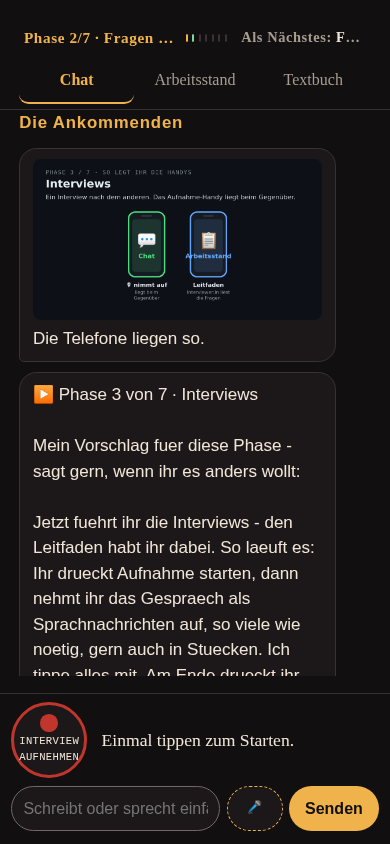
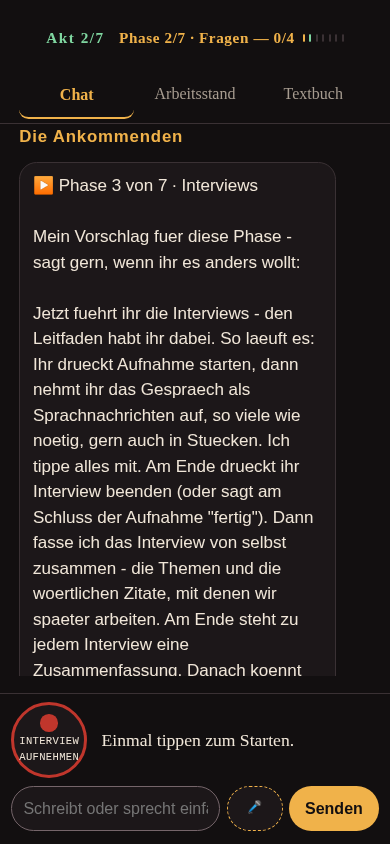
Eigene Nachricht erzwingt wieder ans Ende, auch mit Anker oben am Phasenanfang
Regression im letzten Fix: nach einem Phasenwechsel bleibt der Verlauf
oben am Phasenanfang stehen (warUnten bleibt falsch), bis die Gruppe
selbst wieder runterscrollt -- genau das wollte die Karte. Aber dieselbe
Bedingung hat auch die eigene Nachricht und die Bot-Antwort danach oben
unsichtbar gelassen: Text senden, eine Sprachnachricht hochladen und ein
Knopfdruck sind aber eigene Aktionen, kein passives Nachruecken, und
sollen den Verlauf IMMER wieder ans Ende holen.

``erzwingeNachUnten`` haelt das als einmalige Fahne fest (gesetzt bei
sendeText(), dem Knopf-Handler und erledigt() fuer Audio-Auftraege),
konsumiert vom naechsten Poll, der tatsaechlich neue Nachrichten bringt.

Ausserdem: den Dokumentations-Screenshot aus dem vorigen Commit wieder auf
den Stand von origin/main zurueckgesetzt -- er gehoerte nicht in den Diff.

tests/e2e/test_web_chat_phasenscroll_e2e.py um die eigene Nachricht nach
dem Phasenwechsel erweitert; tests/test_web_chat_js.py an die neue
Fahne angepasst.

Changed region(s): [[0.0308, 0.0924, 0.8, 0.8009], [0.0615, 0.0308, 0.8923, 0.0616], [0.7385, 0.0924, 0.8923, 0.1232]]

diff --git a/interview_theater/web_chat.py b/interview_theater/web_chat.py
@@ -1086,6 +1086,14 @@ _CHAT_JS = """
     ziel.scrollIntoView();
   }
 
+  // Phasenscroll-Karte, Nachtrag (05.10.2026): eine eigene Aktion (Text,
+  // Audioaufnahme, Knopfdruck) soll IMMER wieder ans Ende springen, auch
+  // waehrend der Anker oben noch am Phasenanfang steht -- sonst sieht die
+  // Gruppe die eigene Zeile und die Bot-Antwort danach nicht mehr.
+  // Einmal gesetzt, bleibt die Fahne stehen, bis ein Poll tatsaechlich neue
+  // Nachrichten bringt (die eigene braucht manchmal einen Takt laenger).
+  var erzwingeNachUnten = false;
+
   function nimmZustand(daten) {
     var warUnten = amUnterenRand();
     // Review-Befund 2: die Seite laedt nie neu, ein Nonce gilt hoechstens
@@ -1119,8 +1127,8 @@ _CHAT_JS = """
       // Poll) duerfen diesen Anker nicht wieder nach unten reissen, solange
       // niemand selbst runtergescrollt ist. ``warUnten`` ist VOR dieser
       // DOM-Aenderung gelesen, genau wie im ``geaendert``-Zweig unten.
-      if (phasenwechsel) { scrolleZuPhasenanfang(); }
-      else if (warUnten) { nachUnten(); }
+      if (phasenwechsel) { scrolleZuPhasenanfang(); erzwingeNachUnten = false; }
+      else if (warUnten || erzwingeNachUnten) { nachUnten(); erzwingeNachUnten = false; }
     } else if (warUnten && geaendert.length && letzteBlaseWurdeGeaendert(geaendert)) {
       nachUnten();
     }
@@ -1251,7 +1259,8 @@ _CHAT_JS = """
     if (!text) { return; }
     eingabe.value = '';
     veralteLetzteLeiste();
-    function zurueck() { if (!eingabe.value) { eingabe.value = text; } }
+    erzwingeNachUnten = true;
+    function zurueck() { if (!eingabe.value) { eingabe.value = text; } erzwingeNachUnten = false; }
     postJson(`chat/senden`, { text: text }).then(function (r) {
       if (r.ok) { hole(); return; }
       zurueck();
@@ -1280,16 +1289,19 @@ _CHAT_JS = """
     // dasteht, laedt dazu ein.
     var leiste = knopf.closest('.leiste');
     schalteLeiste(leiste, true);
+    erzwingeNachUnten = true;
     postJson(`chat/knopf`, {
       message_id: parseInt(knopf.dataset.message, 10),
       data: knopf.dataset.daten
     }).then(function (r) {
       if (r.ok) { hole(); return; }
       schalteLeiste(leiste, false);
+      erzwingeNachUnten = false;
       hole();
       return fehlerAus(r);
     }).catch(function () {
       schalteLeiste(leiste, false);
+      erzwingeNachUnten = false;
       meldeFehler(TEXT.fehler_netz);
     });
   });
@@ -1477,6 +1489,9 @@ _CHAT_JS = """
         else { brichAb(auftrag.sitzung); }
       }
     }
+    // Phasenscroll-Karte, Nachtrag (05.10.2026): eine Audioaufnahme ist
+    // eine eigene Aktion wie Text/Knopf -- derselbe Zwang ans Ende.
+    if (auftrag.art === 'audio') { erzwingeNachUnten = true; }
     zeigeWarteschlange();
     zeigeAngehalten();   // ein unterwegs gewesenes Segment ist jetzt erledigt
     zeigeModus();

diff --git a/tests/e2e/test_web_chat_phasenscroll_e2e.py b/tests/e2e/test_web_chat_phasenscroll_e2e.py
@@ -122,6 +122,20 @@ def _wechsle_zu_phase_3() -> None:
         conn.close()
 
 
+def _bot_antwort_auf_eigene_nachricht() -> None:
+    """Simuliert, was der Bot-Prozess auf eine eigene Nachricht hin
+    normalerweise antwortet -- in diesem Test ohne Bot-Prozess, direkt
+    gegen dieselbe Datenbank (wie ``_weitere_bot_zeile_nach_dem_wechsel``)."""
+    conn = db.verbinde(DB_PFAD)
+    try:
+        repo.lege_web_post_an(
+            conn, CHAT, repo.RICHTUNG_AUS, repo.WEB_TYP_TEXT,
+            text="Antwort des Bots auf die eigene Nachricht.",
+        )
+    finally:
+        conn.close()
+
+
 def _weitere_bot_zeile_nach_dem_wechsel() -> None:
     """Was ein spaeterer Poll bringen kann, nachdem die Phase-3-Kopfzeile
     schon im Bild steht (z. B. ``leitfaden.sende_einmal``) -- muss den
@@ -231,6 +245,34 @@ def test_phasenwechsel_scrollt_zum_anfang_der_neuen_phase(server, token):
             assert not verlauf_am_ende(), (
                 "Eine Bot-Zeile NACH dem Phasenwechsel hat den Anker oben "
                 "wieder ans Ende des Verlaufs gerissen."
+            )
+
+            # Phasenscroll-Karte, Nachtrag (05.10.2026): die Gruppe schreibt
+            # jetzt selbst, waehrend der Anker noch oben am Phasenanfang
+            # steht -- die eigene Zeile UND die Bot-Antwort danach muessen
+            # wieder unten im Bild landen, der Anker darf nicht stehen
+            # bleiben.
+            seite.fill("#eingabe", "Eigene Nachricht nach dem Phasenwechsel.")
+            seite.click("#senden")
+            seite.wait_for_timeout(int(POLL_WARTEN_S * 1000))
+
+            eigene_zeile = seite.locator(".blase.gruppe",
+                                          has_text="Eigene Nachricht nach dem Phasenwechsel.")
+            expect(eigene_zeile.last).to_be_in_viewport()
+            assert verlauf_am_ende(), (
+                "Die eigene Nachricht haette den Verlauf wieder ans Ende "
+                "scrollen sollen, der Anker ist oben stehengeblieben."
+            )
+
+            _bot_antwort_auf_eigene_nachricht()
+            seite.wait_for_timeout(int(POLL_WARTEN_S * 1000))
+
+            bot_antwort = seite.locator(".blase.bot",
+                                         has_text="Antwort des Bots auf die eigene Nachricht.")
+            expect(bot_antwort.last).to_be_in_viewport()
+            assert verlauf_am_ende(), (
+                "Die Bot-Antwort nach der eigenen Nachricht haette unten im "
+                "Bild stehen sollen."
             )
 
             SCHUSS_VERZEICHNIS.mkdir(parents=True, exist_ok=True)

diff --git a/tests/test_web_chat_js.py b/tests/test_web_chat_js.py
@@ -459,8 +459,8 @@ def test_nachunten_laeuft_bei_neu_oder_bei_geaenderter_letzter_blase():
         "if (neu.length) {\n" in nimm
     )
     block = nimm[nimm.index("if (neu.length) {"):nimm.index("} else if ")]
-    assert "if (phasenwechsel) { scrolleZuPhasenanfang(); }" in block
-    assert "else if (warUnten) { nachUnten(); }" in block
+    assert "if (phasenwechsel) { scrolleZuPhasenanfang(); erzwingeNachUnten = false; }" in block
+    assert "else if (warUnten || erzwingeNachUnten) { nachUnten(); erzwingeNachUnten = false; }" in block
     nach_else_if = nimm[nimm.index("} else if ") + len("} else if "):]
     bedingung = nach_else_if[:nach_else_if.index(") {")]
     assert "warUnten" in bedingung
